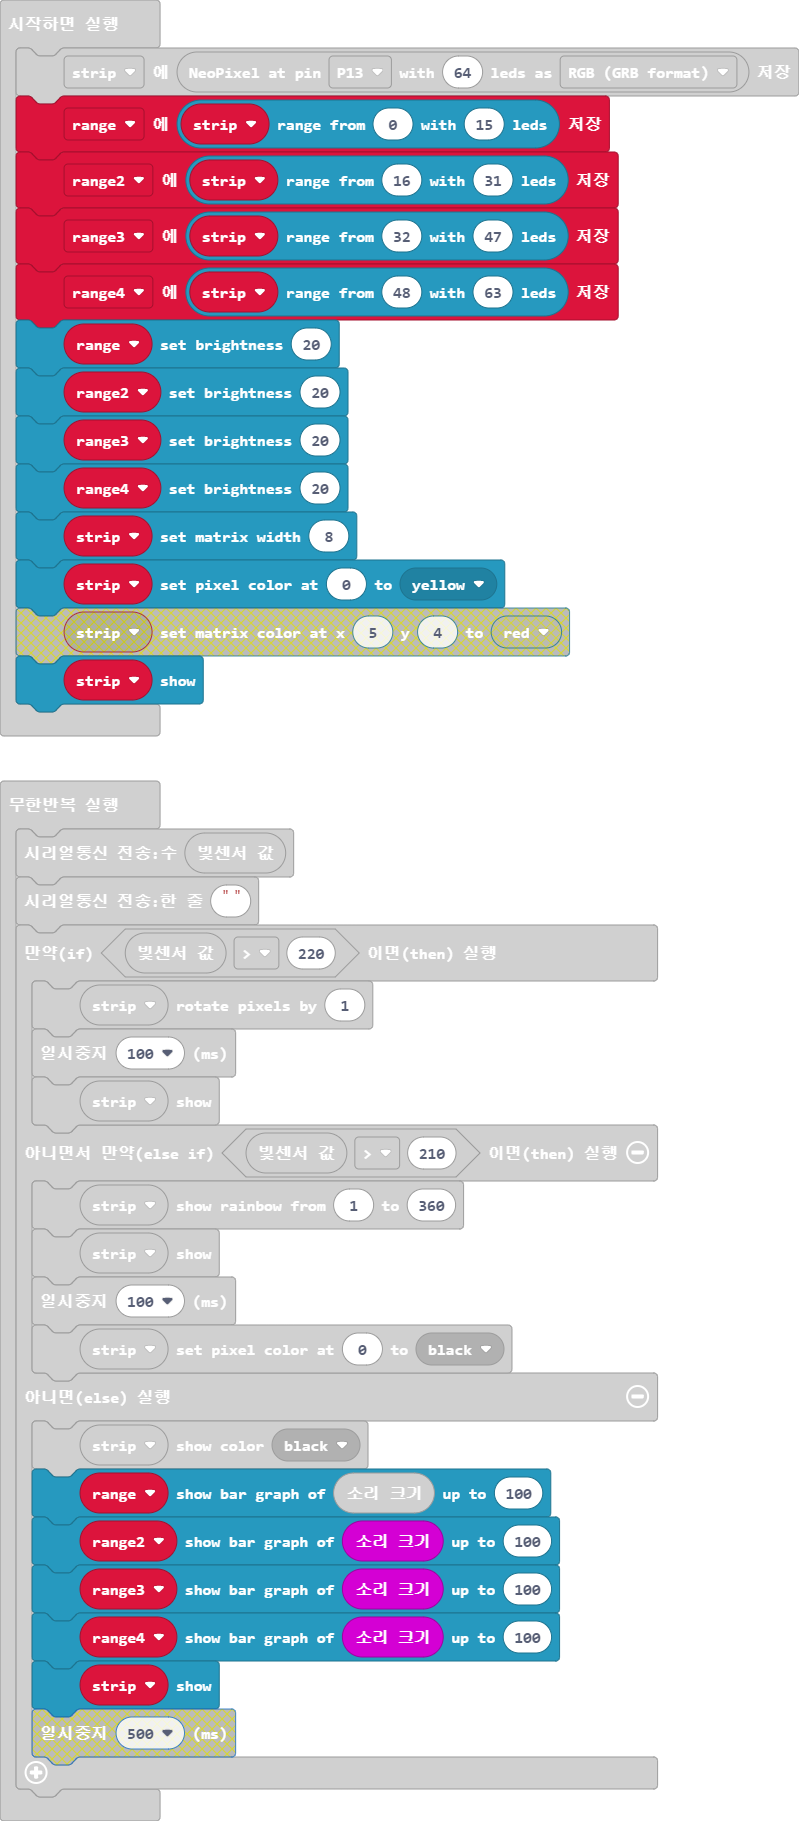
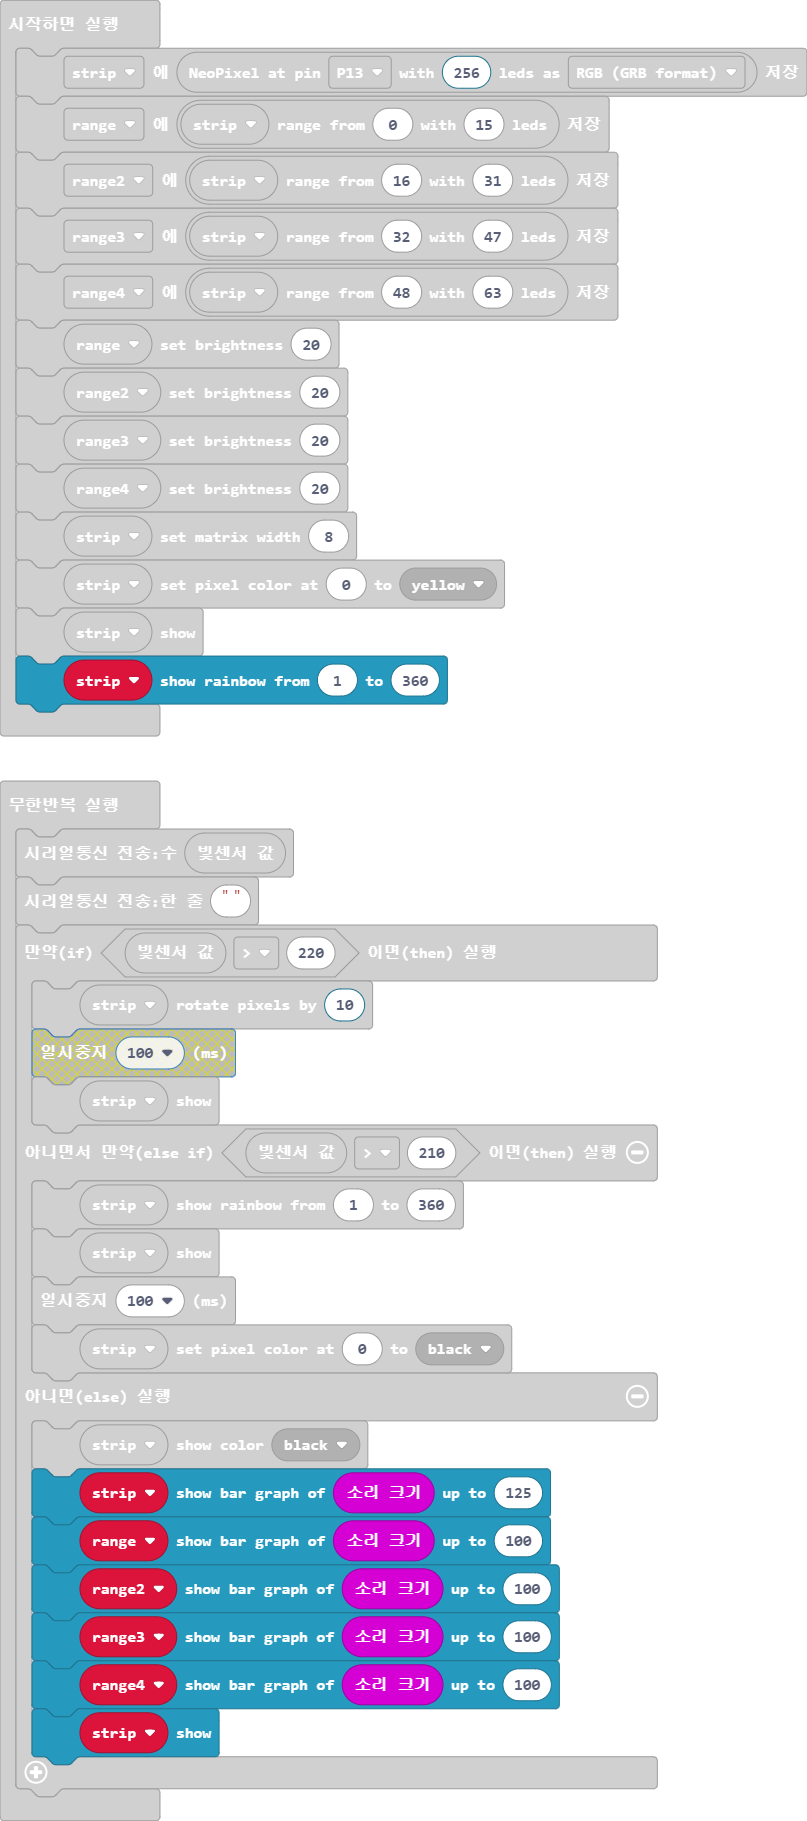
main.blocks, main.ts 업데이트하기

diff --git a/main.ts b/main.ts
@@ -1,4 +1,4 @@
-let strip = neopixel.create(DigitalPin.P13, 64, NeoPixelMode.RGB)
+let strip = neopixel.create(DigitalPin.P13, 256, NeoPixelMode.RGB)
 let range = strip.range(0, 15)
 let range2 = strip.range(16, 31)
 let range3 = strip.range(32, 47)
@@ -10,12 +10,12 @@ range4.setBrightness(20)
 strip.setMatrixWidth(8)
 strip.setPixelColor(0, neopixel.colors(NeoPixelColors.Yellow))
 strip.show()
+strip.showRainbow(1, 360)
 basic.forever(function () {
     serial.writeNumber(input.lightLevel())
     serial.writeLine("")
     if (input.lightLevel() > 220) {
-        strip.rotate(1)
-        basic.pause(100)
+        strip.rotate(10)
         strip.show()
     } else if (input.lightLevel() > 210) {
         strip.showRainbow(1, 360)
@@ -24,6 +24,7 @@ basic.forever(function () {
         strip.setPixelColor(0, neopixel.colors(NeoPixelColors.Black))
     } else {
         strip.showColor(neopixel.colors(NeoPixelColors.Black))
+        strip.showBarGraph(input.soundLevel(), 125)
         range.showBarGraph(input.soundLevel(), 100)
         range2.showBarGraph(input.soundLevel(), 100)
         range3.showBarGraph(input.soundLevel(), 100)
